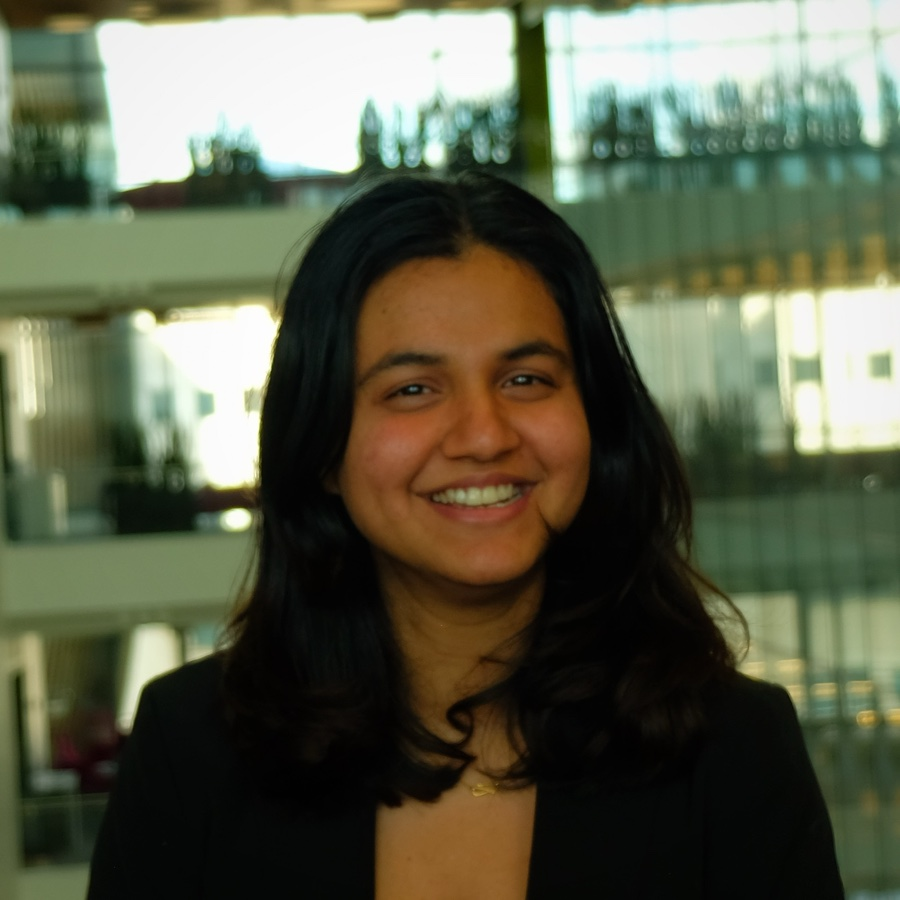
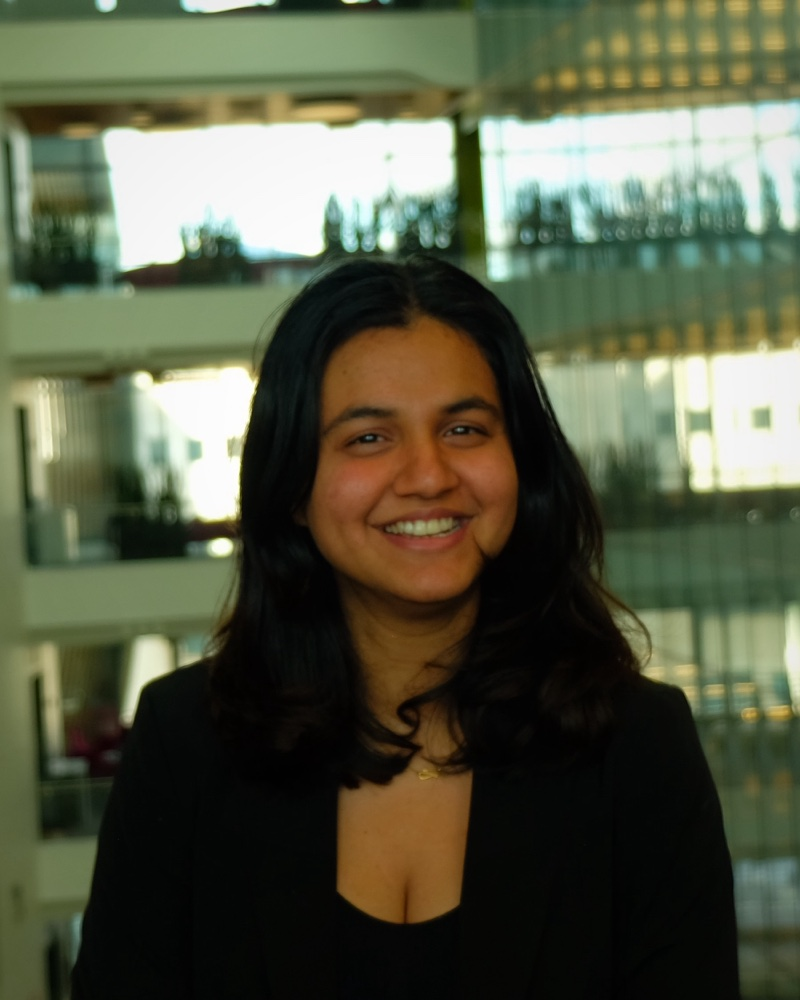
Use the portrait orientation in the hero, drop the resume photo
The hero image goes from a square head-and-shoulders crop to the 4:5 portrait
framing the resume section was using — re-cut from the 6000x4000 original at
800x1000 rather than cropping the existing square, so it gains real headroom
instead of losing pixels.

Removes the portrait from the resume section along with PhotoFrame.jsx and the
now-unused .photo rule; the same shot appearing twice on one page was the
reason to pick one home for it.

diff --git a/react/src/index.css b/react/src/index.css
@@ -238,8 +238,9 @@ ul { list-style: none; margin: 0; padding: 0; }
 }
 
 .hero__portrait {
-  width: clamp(168px, 22vw, 264px);
-  height: clamp(168px, 22vw, 264px);
+  width: clamp(190px, 24vw, 300px);
+  aspect-ratio: 4 / 5;
+  height: auto;
   object-fit: cover;
   margin: 0 auto 28px;
   border: 1px solid var(--line2);
@@ -532,8 +533,6 @@ ul { list-style: none; margin: 0; padding: 0; }
 .hobby { background: var(--card); text-align: center; padding: 20px 12px; }
 .hobby__icon { font-size: 17px; margin-bottom: 9px; }
 .hobby__label { font-family: var(--mono); font-size: 9.5px; letter-spacing: 0.12em; text-transform: uppercase; color: var(--mute); }
-
-.photo { width: 100%; aspect-ratio: 4 / 5; object-fit: cover; border: 1px solid var(--line2); }
 
 /* ── Contact ─────────────────────────────────────────────────────────────── */
 

diff --git a/react/src/components/Resume.jsx b/react/src/components/Resume.jsx
@@ -1,7 +1,6 @@
 import { education, hobbies, languages, profile } from '../data'
 import { useGame } from '../game/GameContext'
 import { useSectionReached } from '../hooks/useScrollEffects'
-import PhotoFrame from './PhotoFrame'
 
 const asset = (file) => `${import.meta.env.BASE_URL}${file}`
 
@@ -41,9 +40,7 @@ export default function Resume() {
           </div>
 
           <div className="reveal">
-            <PhotoFrame />
-
-            <h3 className="h3" style={{ marginTop: 32 }}>Languages</h3>
+            <h3 className="h3">Languages</h3>
             {languages.map((l) => (
               <div className="lang-row" key={l.name}>
                 <span>{l.name}</span>
